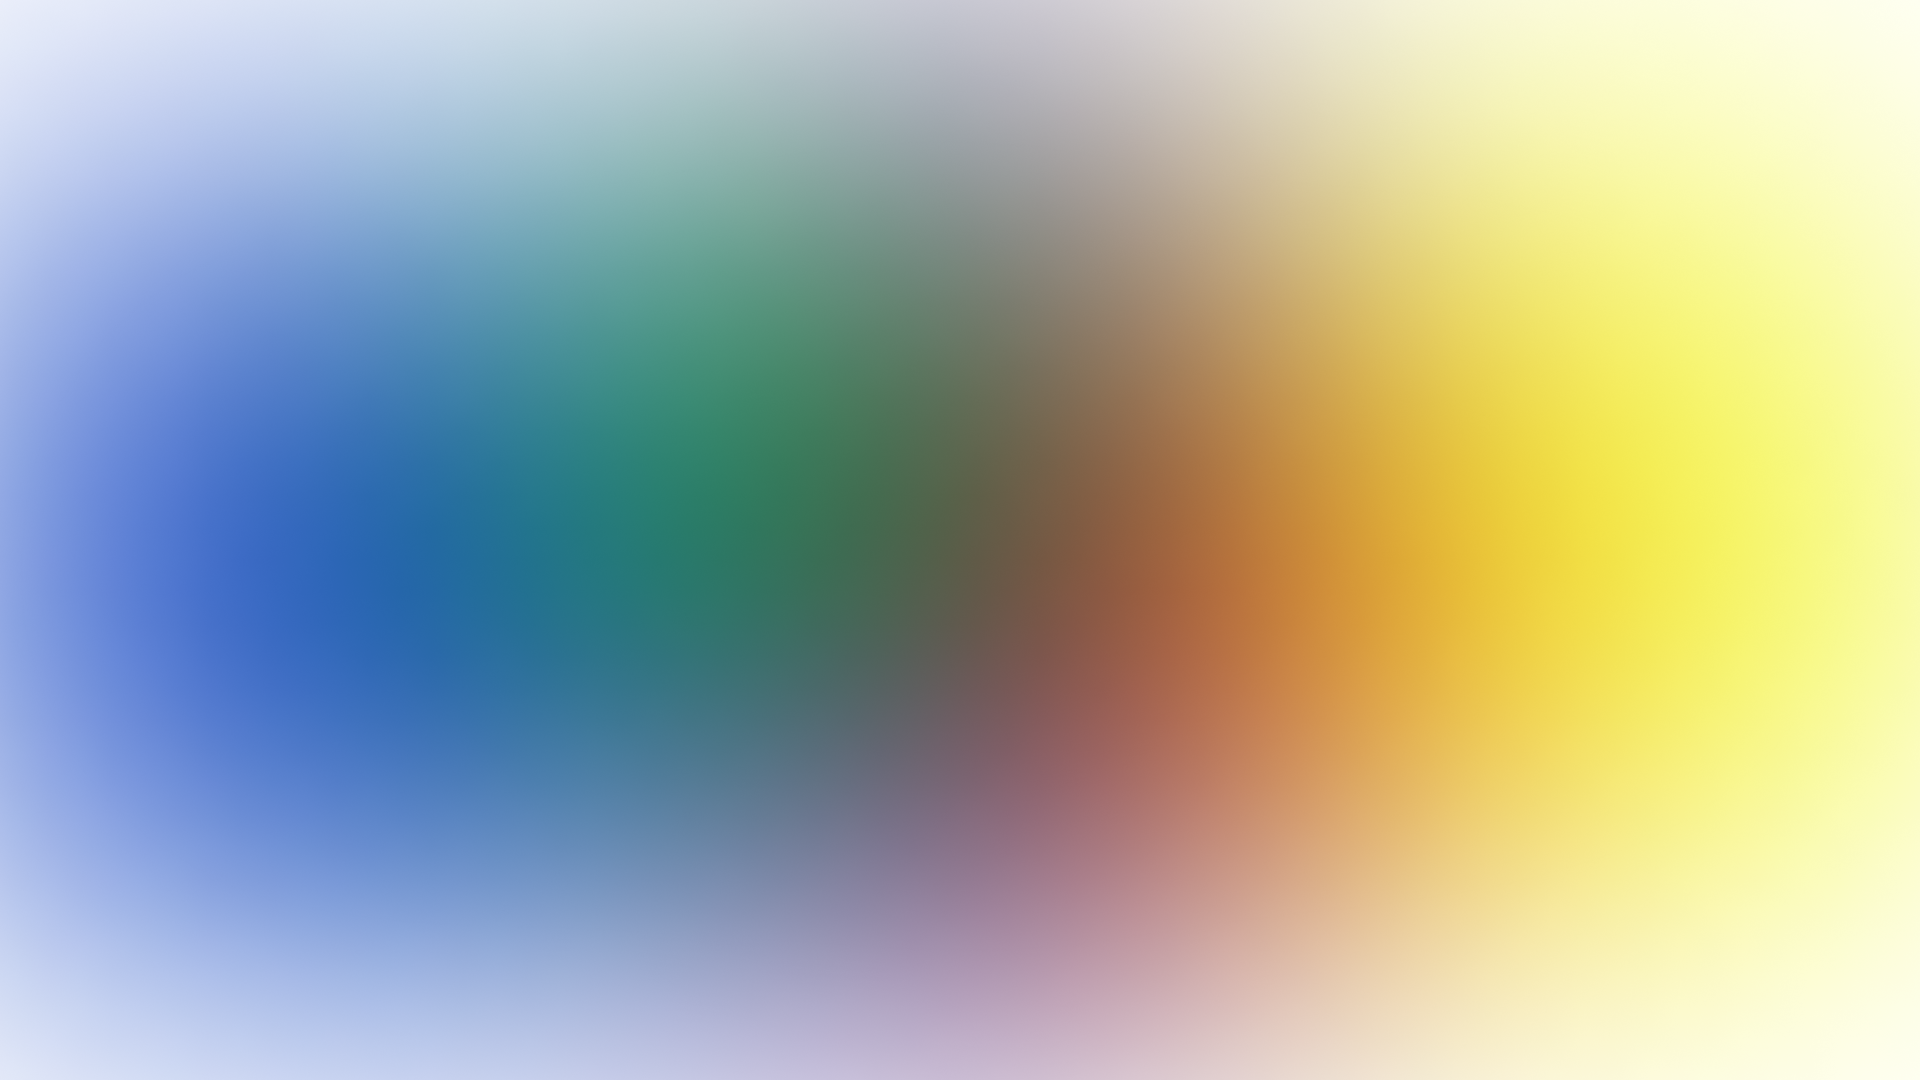
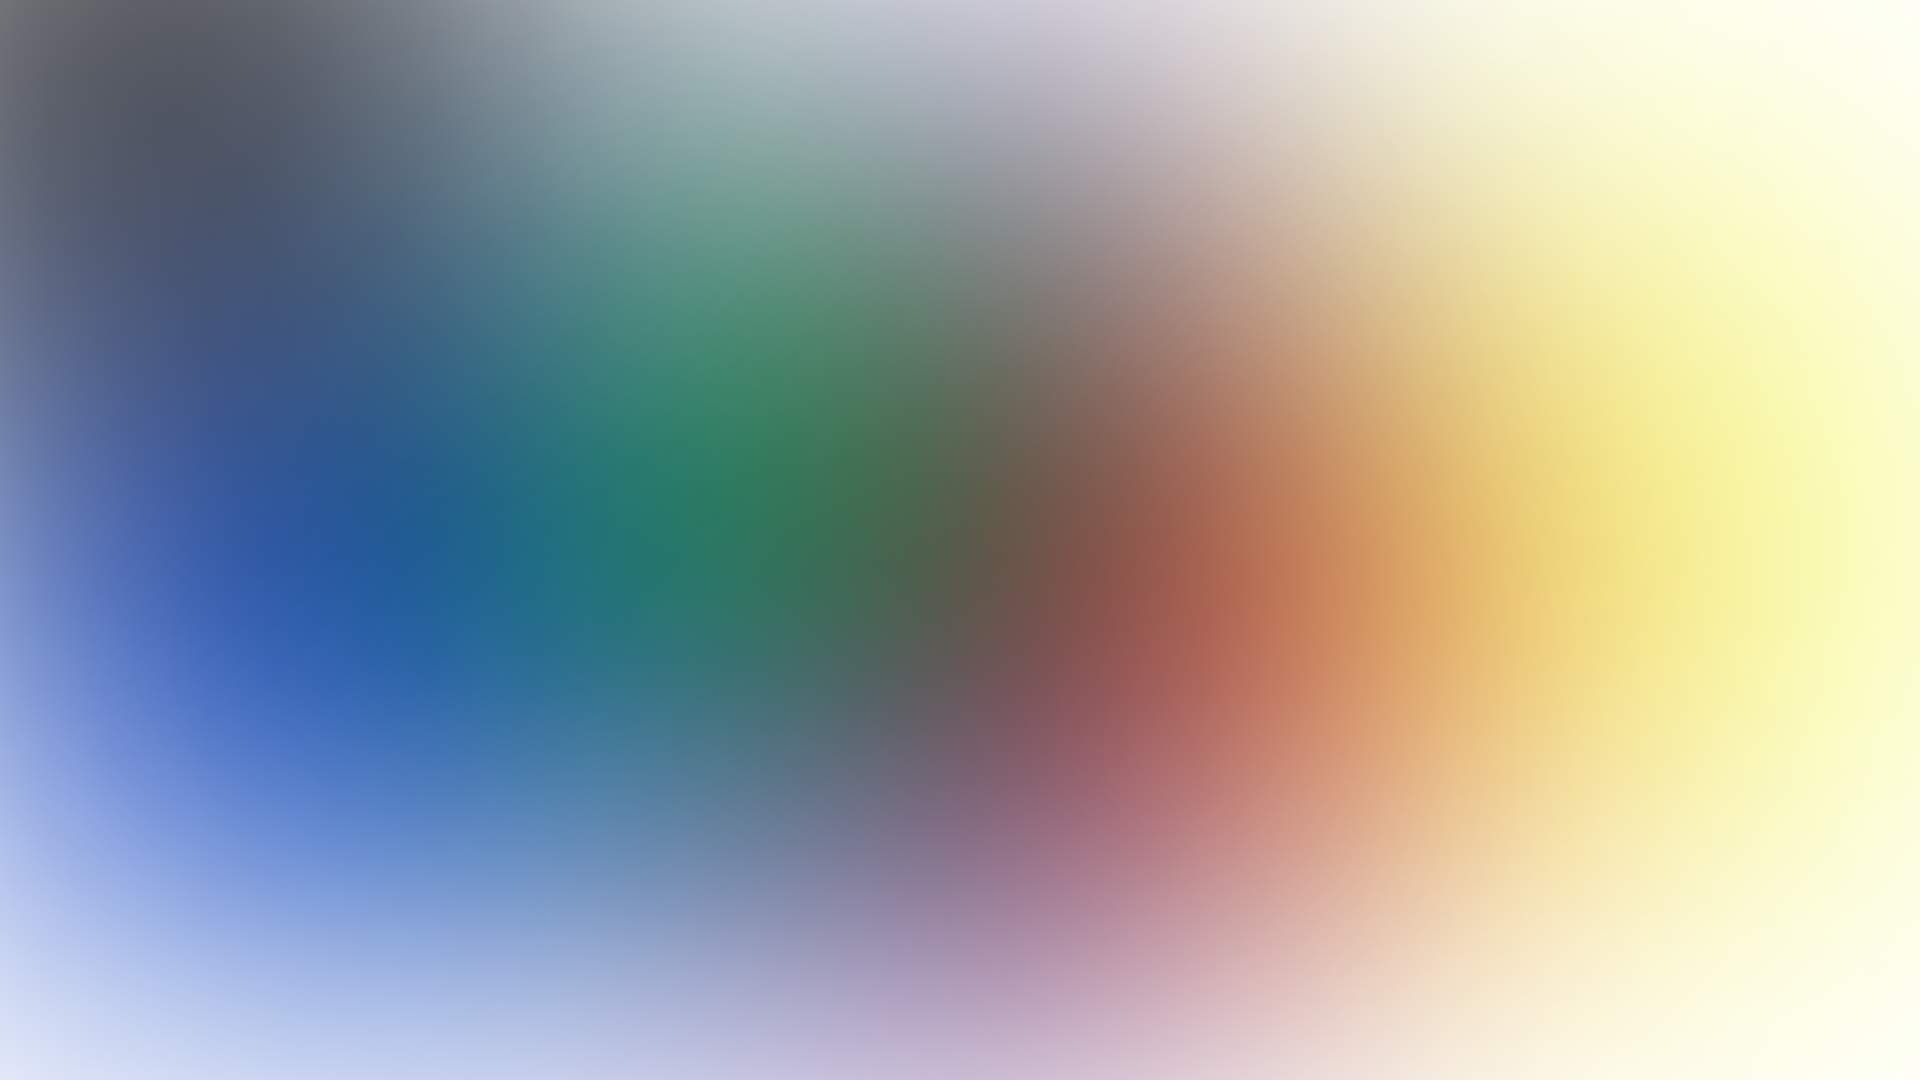
style:created nebula animation

diff --git a/styles/animation.css b/styles/animation.css
@@ -1,4 +1,18 @@
-@media (min-width: 600px) {
+.nebula {
+  z-index: -2;
+  width: 100%;
+  height: 100%;
+
+  position: fixed;
+  top: 0;
+  left: 0;
+
+  background-image: url('/src/images/nebula.png');
+  transition: opacity 2s;
+  animation: nebula 2s 750ms linear forwards;
+}
+
+@media (min-width: 600px) {  
   header .sun {
     width: 3.125rem;
     height: 3.125rem;
@@ -166,5 +180,28 @@
   100% {
     transform: rotate(320deg) translateX(-1580px);
     opacity: 0;
+  }
+}
+
+@keyframes nebula {
+  0% {
+    transform: scale(400%);
+    opacity: 0;
+  }
+
+  25% {
+    opacity: .5;
+    
+  }
+  
+  50% {
+    opacity: .75;
+    
+  }
+
+  100% {
+    opacity: 1;
+    transform: scale(100%);
+
   }
 }

diff --git a/styles/styles.css b/styles/styles.css
@@ -174,19 +174,6 @@ h1 {
   margin-top: 14.5rem;
 }
 
-.nebula {
-  z-index: -2;
-  width: 100%;
-  height: 100%;
-
-  position: fixed;
-  top: 0;
-  left: 0;
-
-  background-image: url('/src/images/nebula.png');
-  transition: background-image 750ms;
-  transform: rotate(180deg);
-}
 
 ::-webkit-scrollbar {
   display: none;
@@ -247,8 +234,4 @@ h1 {
     font-size: 1.125em;
   }
 
-  .nebula {
-    background-image: url('/src/images/nebulaDesktop.png');
-    transition: background-image 750ms;
-  }
 }
